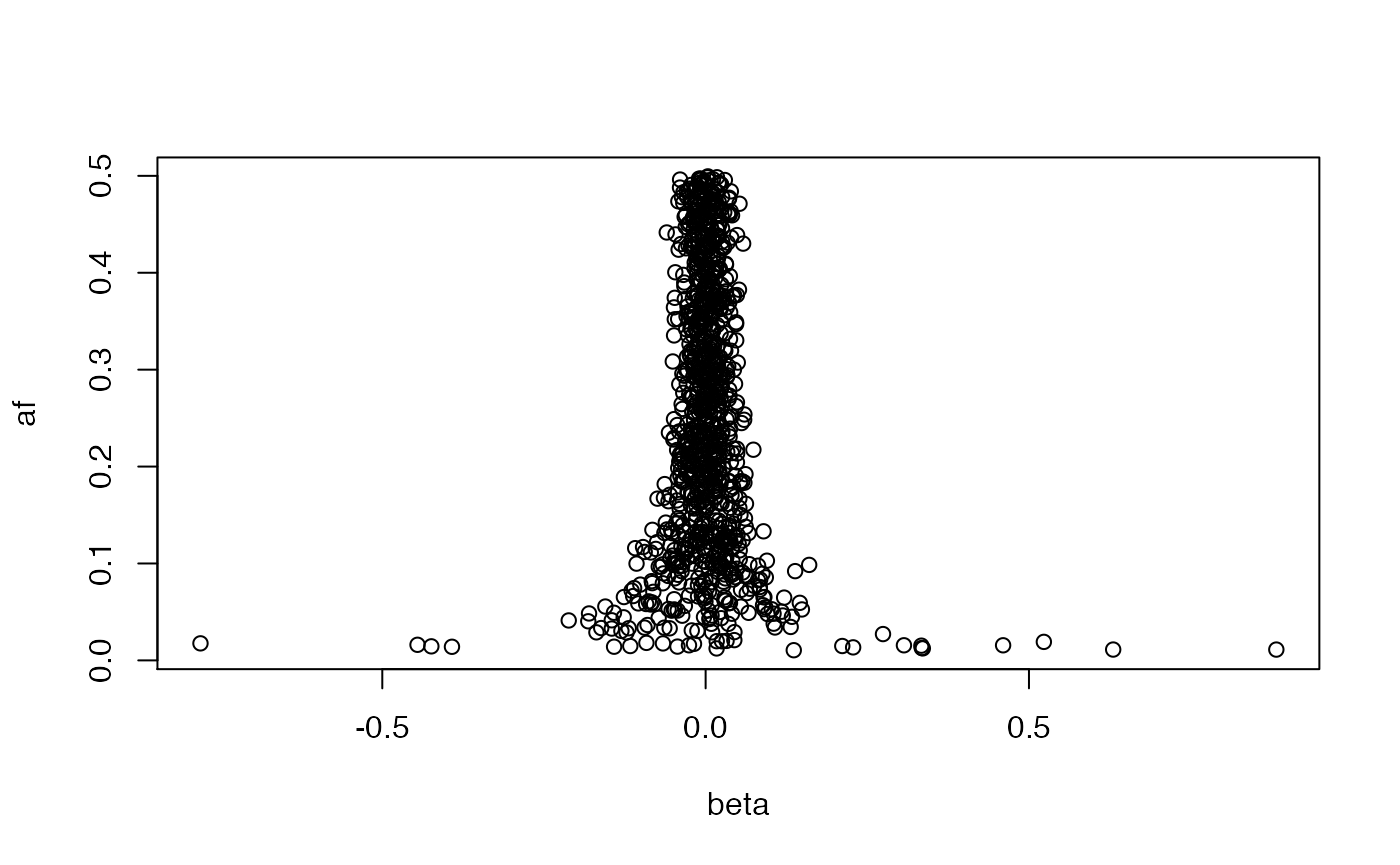
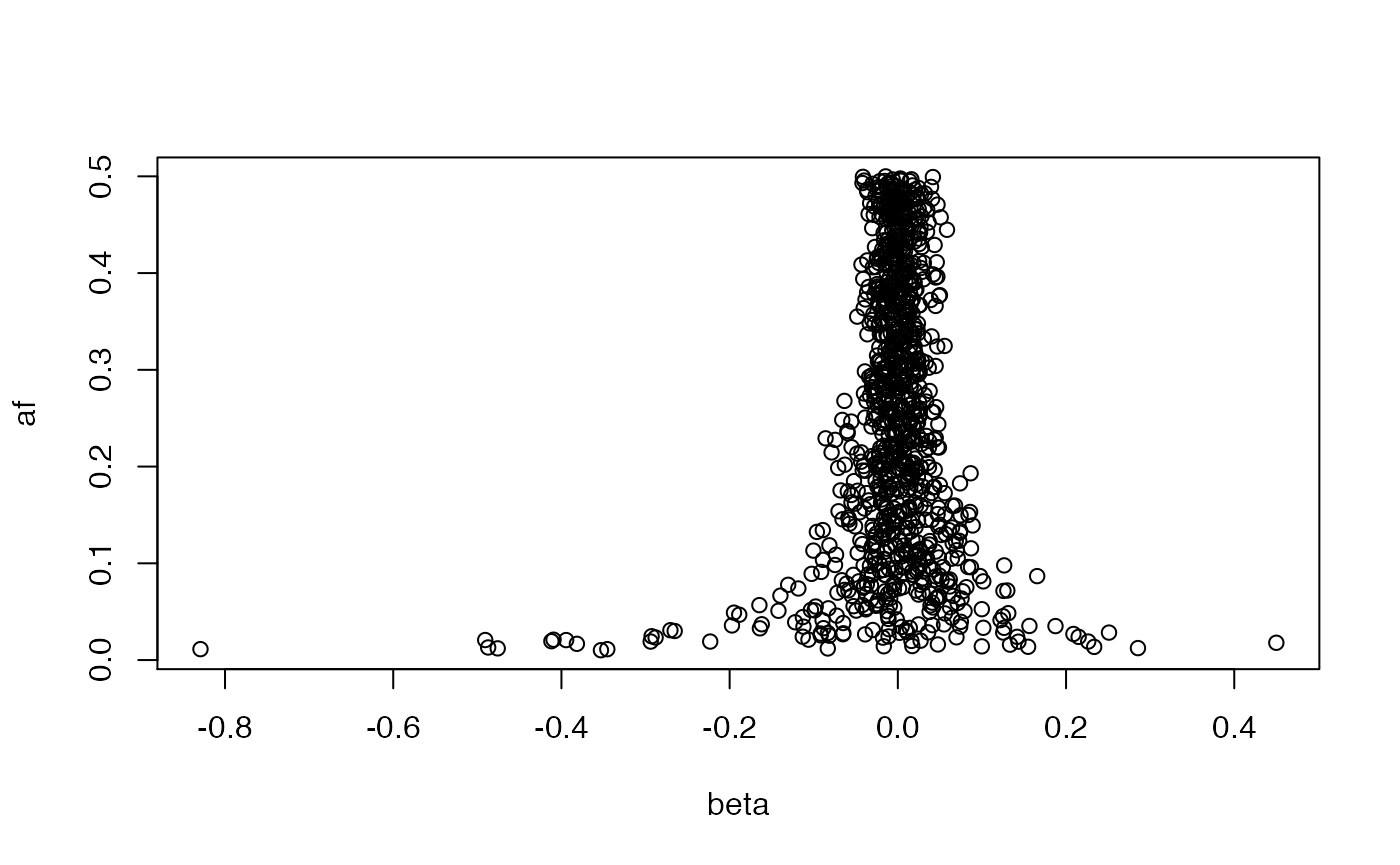
updated

diff --git a/docs/articles/weak_instruments.html b/docs/articles/weak_instruments.html
@@ -64,7 +64,7 @@
       <h1 data-toc-skip>Simulating summary data for weak instruments</h1>
             
       
-      
+      <small class="dont-index">Source: <a href="https://github.com/explodecomputer/simulateGP/blob/master/vignettes/weak_instruments.Rmd"><code>vignettes/weak_instruments.Rmd</code></a></small>
       <div class="hidden name"><code>weak_instruments.Rmd</code></div>
 
     </div>
@@ -72,7 +72,7 @@
     
     
 <div class="sourceCode" id="cb1"><pre class="downlit">
-<span class="kw"><a href="https://rdrr.io/r/base/library.html">library</a></span><span class="op">(</span><span class="va">simulateGP</span><span class="op">)</span>
+<span class="kw"><a href="https://rdrr.io/r/base/library.html">library</a></span><span class="op">(</span><span class="va"><a href="https://explodecomputer.github.io/simulateGP/">simulateGP</a></span><span class="op">)</span>
 <span class="kw"><a href="https://rdrr.io/r/base/library.html">library</a></span><span class="op">(</span><span class="va"><a href="http://tidyverse.tidyverse.org">tidyverse</a></span><span class="op">)</span>
 <span class="co">#&gt; ── Attaching packages ─────────────────────────────────────── tidyverse 1.3.0 ──</span>
 <span class="co">#&gt; ✔ ggplot2 3.3.2     ✔ purrr   0.3.4</span>
@@ -81,7 +81,8 @@
 <span class="co">#&gt; ✔ readr   1.4.0     ✔ forcats 0.5.0</span>
 <span class="co">#&gt; ── Conflicts ────────────────────────────────────────── tidyverse_conflicts() ──</span>
 <span class="co">#&gt; ✖ dplyr::filter() masks stats::filter()</span>
-<span class="co">#&gt; ✖ dplyr::lag()    masks stats::lag()</span></pre></div>
+<span class="co">#&gt; ✖ dplyr::lag()    masks stats::lag()</span>
+<span class="kw"><a href="https://rdrr.io/r/base/library.html">library</a></span><span class="op">(</span><span class="va"><a href="http://mvtnorm.R-forge.R-project.org">mvtnorm</a></span><span class="op">)</span></pre></div>
 <div id="weak-instrument-bias" class="section level2">
 <h2 class="hasAnchor">
 <a href="#weak-instrument-bias" class="anchor"></a>Weak instrument bias</h2>
@@ -120,10 +121,10 @@
 
 
 <span class="fu"><a href="https://rdrr.io/r/stats/cor.html">var</a></span><span class="op">(</span><span class="va">bv</span><span class="op">)</span>
-<span class="co">#&gt;         [,1]</span>
-<span class="co">#&gt; [1,] 40.6747</span>
+<span class="co">#&gt;          [,1]</span>
+<span class="co">#&gt; [1,] 39.19044</span>
 <span class="fu"><a href="https://rdrr.io/r/stats/sd.html">sd</a></span><span class="op">(</span><span class="va">bv</span><span class="op">)</span>
-<span class="co">#&gt; [1] 6.377672</span>
+<span class="co">#&gt; [1] 6.260227</span>
 
 
 <span class="co"># h2 &lt;- b^2 * 2 * maf * (1 - maf) / vy</span>
@@ -137,14 +138,14 @@
 <span class="va">b</span> <span class="op">&lt;-</span> <span class="fu"><a href="../reference/choose_effects.html">choose_effects</a></span><span class="op">(</span><span class="va">nsnp</span>, <span class="va">h2</span><span class="op">)</span>
 <span class="va">y</span> <span class="op">&lt;-</span> <span class="fu"><a href="../reference/make_phen.html">make_phen</a></span><span class="op">(</span><span class="va">b</span>, <span class="va">G</span><span class="op">)</span>
 <span class="fu"><a href="https://rdrr.io/r/utils/head.html">head</a></span><span class="op">(</span><span class="va">y</span><span class="op">)</span>
-<span class="co">#&gt; [1]  1.1744053  0.1270495 -0.5768725 -1.0078958  1.2872104 -0.6908361</span>
+<span class="co">#&gt; [1]  1.5845015  0.5558443  0.6652768 -0.1481803  0.4776362 -1.4979761</span>
 <span class="fu"><a href="https://rdrr.io/r/stats/cor.html">var</a></span><span class="op">(</span><span class="va">y</span><span class="op">)</span>
 <span class="co">#&gt; [1] 1</span>
 
 <span class="va">bv</span> <span class="op">&lt;-</span> <span class="va">G</span> <span class="op">%*%</span> <span class="va">b</span>
 <span class="fu"><a href="https://rdrr.io/r/stats/cor.html">cor</a></span><span class="op">(</span><span class="va">bv</span>, <span class="va">y</span><span class="op">)</span><span class="op">^</span><span class="fl">2</span>
 <span class="co">#&gt;           [,1]</span>
-<span class="co">#&gt; [1,] 0.4014981</span>
+<span class="co">#&gt; [1,] 0.4008447</span>
 <span class="va">bhat</span> <span class="op">&lt;-</span> <span class="fu"><a href="../reference/gwas.html">gwas</a></span><span class="op">(</span><span class="va">y</span>, <span class="va">G</span><span class="op">)</span>
 <span class="co">#&gt; Warning: The `x` argument of `as_tibble.matrix()` must have unique column names if `.name_repair` is omitted as of tibble 2.0.0.</span>
 <span class="co">#&gt; Using compatibility `.name_repair`.</span>
@@ -221,11 +222,10 @@ s_{\hat{\beta}} = \sqrt{\frac{MSE}{SSX}}
 <p><img src="weak_instruments_files/figure-html/unnamed-chunk-8-6.png" width="700"></p>
 <p>Weak instrument bias</p>
 <div class="sourceCode" id="cb15"><pre class="downlit">
-<span class="kw"><a href="https://rdrr.io/r/base/library.html">library</a></span><span class="op">(</span><span class="va"><a href="http://mvtnorm.R-forge.R-project.org">mvtnorm</a></span><span class="op">)</span>
 
 <span class="va">get_biv_bias</span> <span class="op">&lt;-</span> <span class="kw">function</span><span class="op">(</span><span class="va">n</span>, <span class="va">rho</span>, <span class="va">beta</span>, <span class="va">pi1</span><span class="op">)</span>
 <span class="op">{</span>
-    <span class="va">err</span> <span class="op">&lt;-</span> <span class="fu"><a href="https://rdrr.io/pkg/mvtnorm/man/Mvnorm.html">rmvnorm</a></span><span class="op">(</span><span class="va">n</span>, <span class="fu"><a href="https://rdrr.io/r/base/c.html">c</a></span><span class="op">(</span><span class="fl">0</span>,<span class="fl">0</span><span class="op">)</span>, <span class="fu"><a href="https://rdrr.io/r/base/matrix.html">matrix</a></span><span class="op">(</span><span class="fu"><a href="https://rdrr.io/r/base/c.html">c</a></span><span class="op">(</span><span class="fl">1</span>,<span class="va">rho</span>,<span class="va">rho</span>,<span class="fl">1</span><span class="op">)</span>, <span class="fl">2</span>, <span class="fl">2</span><span class="op">)</span><span class="op">)</span>
+    <span class="va">err</span> <span class="op">&lt;-</span> <span class="fu">mvtnorm</span><span class="fu">::</span><span class="fu"><a href="https://rdrr.io/pkg/mvtnorm/man/Mvnorm.html">rmvnorm</a></span><span class="op">(</span><span class="va">n</span>, <span class="fu"><a href="https://rdrr.io/r/base/c.html">c</a></span><span class="op">(</span><span class="fl">0</span>,<span class="fl">0</span><span class="op">)</span>, <span class="fu"><a href="https://rdrr.io/r/base/matrix.html">matrix</a></span><span class="op">(</span><span class="fu"><a href="https://rdrr.io/r/base/c.html">c</a></span><span class="op">(</span><span class="fl">1</span>,<span class="va">rho</span>,<span class="va">rho</span>,<span class="fl">1</span><span class="op">)</span>, <span class="fl">2</span>, <span class="fl">2</span><span class="op">)</span><span class="op">)</span>
     <span class="va">eta</span> <span class="op">&lt;-</span> <span class="va">err</span><span class="op">[</span>,<span class="fl">1</span><span class="op">]</span>
     <span class="va">zeta</span> <span class="op">&lt;-</span> <span class="va">err</span><span class="op">[</span>,<span class="fl">2</span><span class="op">]</span>
     <span class="va">z</span> <span class="op">&lt;-</span> <span class="fu"><a href="https://rdrr.io/r/stats/Normal.html">rnorm</a></span><span class="op">(</span><span class="va">n</span><span class="op">)</span>

diff --git a/docs/articles/gwas_summary_data.html b/docs/articles/gwas_summary_data.html
@@ -64,7 +64,7 @@
       <h1 data-toc-skip>Simulating GWAS summary data</h1>
             
       
-      
+      <small class="dont-index">Source: <a href="https://github.com/explodecomputer/simulateGP/blob/master/vignettes/gwas_summary_data.Rmd"><code>vignettes/gwas_summary_data.Rmd</code></a></small>
       <div class="hidden name"><code>gwas_summary_data.Rmd</code></div>
 
     </div>
@@ -72,7 +72,7 @@
     
     
 <div class="sourceCode" id="cb1"><pre class="downlit">
-<span class="kw"><a href="https://rdrr.io/r/base/library.html">library</a></span><span class="op">(</span><span class="va">simulateGP</span><span class="op">)</span>
+<span class="kw"><a href="https://rdrr.io/r/base/library.html">library</a></span><span class="op">(</span><span class="va"><a href="https://explodecomputer.github.io/simulateGP/">simulateGP</a></span><span class="op">)</span>
 <span class="kw"><a href="https://rdrr.io/r/base/library.html">library</a></span><span class="op">(</span><span class="va"><a href="http://tidyverse.tidyverse.org">tidyverse</a></span><span class="op">)</span>
 <span class="co">#&gt; ── Attaching packages ─────────────────────────────────────── tidyverse 1.3.0 ──</span>
 <span class="co">#&gt; ✔ ggplot2 3.3.2     ✔ purrr   0.3.4</span>
@@ -144,9 +144,9 @@ s_{\hat{\beta}_1} = \sqrt{\frac{\sum{\epsilon_i^2}}{(n-2) \sum{(x_i - \bar{x})^2
 <span class="va">x</span> <span class="op">&lt;-</span> <span class="fu"><a href="https://rdrr.io/r/stats/Normal.html">rnorm</a></span><span class="op">(</span><span class="va">n</span><span class="op">)</span>
 
 <span class="fu"><a href="https://rdrr.io/r/base/summary.html">summary</a></span><span class="op">(</span><span class="fu"><a href="https://rdrr.io/r/stats/lm.html">lm</a></span><span class="op">(</span><span class="va">y</span> <span class="op">~</span> <span class="va">x</span><span class="op">)</span><span class="op">)</span><span class="op">$</span><span class="va">coefficients</span><span class="op">[</span><span class="fl">2</span>,<span class="fl">2</span><span class="op">]</span>
-<span class="co">#&gt; [1] 0.08782566</span>
+<span class="co">#&gt; [1] 0.1195367</span>
 <span class="fu"><a href="https://rdrr.io/r/base/MathFun.html">sqrt</a></span><span class="op">(</span><span class="op">(</span><span class="fu"><a href="https://rdrr.io/r/stats/cor.html">var</a></span><span class="op">(</span><span class="va">y</span><span class="op">)</span> <span class="op">-</span> <span class="fu"><a href="https://rdrr.io/r/stats/cor.html">cor</a></span><span class="op">(</span><span class="va">x</span>,<span class="va">y</span><span class="op">)</span><span class="op">^</span><span class="fl">2</span> <span class="op">*</span> <span class="fu"><a href="https://rdrr.io/r/stats/cor.html">var</a></span><span class="op">(</span><span class="va">y</span><span class="op">)</span><span class="op">)</span> <span class="op">/</span> <span class="op">(</span><span class="fu"><a href="https://rdrr.io/r/stats/cor.html">var</a></span><span class="op">(</span><span class="va">x</span><span class="op">)</span> <span class="op">*</span> <span class="op">(</span><span class="va">n</span><span class="op">-</span><span class="fl">2</span><span class="op">)</span><span class="op">)</span><span class="op">)</span>
-<span class="co">#&gt; [1] 0.08782566</span></pre></div>
+<span class="co">#&gt; [1] 0.1195367</span></pre></div>
 </div>
 <div id="sampling-the-effect-estimate" class="section level2">
 <h2 class="hasAnchor">
@@ -222,7 +222,7 @@ Var(y) = V_G + V_E
 <span class="co">#&gt;     beta &lt;- beta/sqrt(vy)</span>
 <span class="co">#&gt;     return(dplyr::tibble(beta = beta, af = af))</span>
 <span class="co">#&gt; }</span>
-<span class="co">#&gt; &lt;bytecode: 0x7fefcb2b1b80&gt;</span>
+<span class="co">#&gt; &lt;bytecode: 0x7f8fb2d50700&gt;</span>
 <span class="co">#&gt; &lt;environment: namespace:simulateGP&gt;</span></pre></div>
 <p>Negative selection:</p>
 <div class="sourceCode" id="cb4"><pre class="downlit">

diff --git a/docs/index.html b/docs/index.html
@@ -67,20 +67,27 @@
 <div id="simulate-genotype-phenotype-data-or-gwas-summary-data" class="section level1">
 <div class="page-header"><h1 class="hasAnchor">
 <a href="#simulate-genotype-phenotype-data-or-gwas-summary-data" class="anchor"></a>Simulate genotype-phenotype data or GWAS summary data</h1></div>
-<p>This package contains functions that simulate individual-level genotype and phenotype data that conform to pre-specified directed acyclic graphs. It can also simulate GWAS summary data for arbitrary sample sizes rapidly, with realistic genetic architectures, sample overlap effects and LD structures.</p>
-<p>To install:</p>
-<pre><code><a href="https://devtools.r-lib.org//reference/remote-reexports.html">devtools::install_github("explodecomputer/simulateGP")</a></code></pre>
-<div id="documentation" class="section level2">
-<h2 class="hasAnchor">
-<a href="#documentation" class="anchor"></a>Documentation</h2>
-<p>For extended information see the documentation <a href="https://explodecomputer.github.io/simulateGP">here</a>.</p>
+<p>This package contains functions that simulate individual-level genotype and phenotype data arising from pre-specified directed acyclic graphs. It can also simulate large scale GWAS summary data for arbitrary sample sizes rapidly, with realistic genetic architectures, sample overlap effects and LD structures.</p>
 </div>
+<div id="installation" class="section level1">
+<h1 class="hasAnchor">
+<a href="#installation" class="anchor"></a>Installation</h1>
+<pre><code><a href="https://remotes.r-lib.org/reference/install_github.html">remotes::install_github("explodecomputer/simulateGP")</a></code></pre>
 </div>
 
   </div>
 
   <div class="col-md-3 hidden-xs hidden-sm" id="pkgdown-sidebar">
-    <div class="license">
+    <div class="links">
+<h2>Links</h2>
+<ul class="list-unstyled">
+<li>Browse source code at <br><a href="https://github.com/explodecomputer/simulateGP/">https://github.com/explodecomputer/simulateGP/</a>
+</li>
+<li>Report a bug at <br><a href="https://github.com/explodecomputer/simulateGP/issues">https://github.com/explodecomputer/simulateGP/issues</a>
+</li>
+</ul>
+</div>
+<div class="license">
 <h2>License</h2>
 <ul class="list-unstyled">
 <li><a href="LICENSE.html">Full license</a></li>
@@ -99,8 +106,7 @@
 <h2>Dev status</h2>
 <ul class="list-unstyled">
 <li><a href="https://www.tidyverse.org/lifecycle/#experimental"><img src="https://img.shields.io/badge/lifecycle-experimental-orange.svg" alt="Lifecycle: experimental"></a></li>
-<li><a href="https://travis-ci.org/explodecomputer/simulateGP"><img src="https://travis-ci.org/explodecomputer/simulateGP.svg?branch=master" alt="Travis-CI build status"></a></li>
-<li><a href="https://codecov.io/github/explodecomputer/simulateGP"><img src="https://codecov.io/github/explodecomputer/simulateGP/branch/master/graphs/badge.svg" alt="codecov"></a></li>
+<li><a href="https://github.com/explodecomputer/simulateGP/actions"><img src="https://github.com/explodecomputer/simulateGP/workflows/R-CMD-check/badge.svg" alt="R build status"></a></li>
 </ul>
 </div>
 </div>

diff --git a/docs/reference/contingency.html b/docs/reference/contingency.html
@@ -104,7 +104,7 @@ Rows are the frequencies for allele 1 and allele 2" />
   <div class="col-md-9 contents">
     <div class="page-header">
     <h1>Obtain 2x2 contingency table from marginal parameters and odds ratio</h1>
-    
+    <small class="dont-index">Source: <a href='https://github.com/explodecomputer/simulateGP/blob/master/R/rsq_liability.r'><code>R/rsq_liability.r</code></a></small>
     <div class="hidden name"><code>contingency.Rd</code></div>
     </div>
 

diff --git a/docs/reference/get_population_allele_frequency.html b/docs/reference/get_population_allele_frequency.html
@@ -103,7 +103,7 @@
   <div class="col-md-9 contents">
     <div class="page-header">
     <h1>Estimate the allele frequency in population from case/control summary data</h1>
-    
+    <small class="dont-index">Source: <a href='https://github.com/explodecomputer/simulateGP/blob/master/R/rsq_liability.r'><code>R/rsq_liability.r</code></a></small>
     <div class="hidden name"><code>get_population_allele_frequency.Rd</code></div>
     </div>
 

diff --git a/docs/reference/ascertain_samples.html b/docs/reference/ascertain_samples.html
@@ -103,7 +103,7 @@
   <div class="col-md-9 contents">
     <div class="page-header">
     <h1>Ascertain some proportion of cases and controls from binary phenotype</h1>
-    
+    <small class="dont-index">Source: <a href='https://github.com/explodecomputer/simulateGP/blob/master/R/generate_individuals.r'><code>R/generate_individuals.r</code></a></small>
     <div class="hidden name"><code>ascertain_samples.Rd</code></div>
     </div>
 

diff --git a/docs/reference/lor_to_rsq.html b/docs/reference/lor_to_rsq.html
@@ -103,7 +103,7 @@
   <div class="col-md-9 contents">
     <div class="page-header">
     <h1>Estimate proportion of variance of liability explained by SNP in general population</h1>
-    
+    <small class="dont-index">Source: <a href='https://github.com/explodecomputer/simulateGP/blob/master/R/rsq_liability.r'><code>R/rsq_liability.r</code></a></small>
     <div class="hidden name"><code>lor_to_rsq.Rd</code></div>
     </div>
 

diff --git a/docs/reference/make_mvdat.html b/docs/reference/make_mvdat.html
@@ -103,7 +103,7 @@
   <div class="col-md-9 contents">
     <div class="page-header">
     <h1>Take several exposures and one outcome and make the data required for multivariable MR</h1>
-    
+    <small class="dont-index">Source: <a href='https://github.com/explodecomputer/simulateGP/blob/master/R/format_mr.r'><code>R/format_mr.r</code></a></small>
     <div class="hidden name"><code>make_mvdat.Rd</code></div>
     </div>
 

diff --git a/docs/reference/choose_effects.html b/docs/reference/choose_effects.html
@@ -103,7 +103,7 @@
   <div class="col-md-9 contents">
     <div class="page-header">
     <h1>Get vector of effects that explain some amount of variance</h1>
-    
+    <small class="dont-index">Source: <a href='https://github.com/explodecomputer/simulateGP/blob/master/R/generate_individuals.r'><code>R/generate_individuals.r</code></a></small>
     <div class="hidden name"><code>choose_effects.Rd</code></div>
     </div>
 

diff --git a/docs/reference/make_phen.html b/docs/reference/make_phen.html
@@ -103,7 +103,7 @@
   <div class="col-md-9 contents">
     <div class="page-header">
     <h1>Simulate variable based on the influences of other variables</h1>
-    
+    <small class="dont-index">Source: <a href='https://github.com/explodecomputer/simulateGP/blob/master/R/generate_individuals.r'><code>R/generate_individuals.r</code></a></small>
     <div class="hidden name"><code>make_phen.Rd</code></div>
     </div>
 

diff --git a/docs/reference/generate_gwas_params.html b/docs/reference/generate_gwas_params.html
@@ -103,7 +103,7 @@
   <div class="col-md-9 contents">
     <div class="page-header">
     <h1>Generate SNP effects given MAF, h2 and selection</h1>
-    
+    <small class="dont-index">Source: <a href='https://github.com/explodecomputer/simulateGP/blob/master/R/theoretical_gwas.R'><code>R/theoretical_gwas.R</code></a></small>
     <div class="hidden name"><code>generate_gwas_params.Rd</code></div>
     </div>
 

diff --git a/docs/reference/sample_system_effects.html b/docs/reference/sample_system_effects.html
@@ -103,7 +103,7 @@
   <div class="col-md-9 contents">
     <div class="page-header">
     <h1>Sample the actual effects based on initial parameters</h1>
-    
+    <small class="dont-index">Source: <a href='https://github.com/explodecomputer/simulateGP/blob/master/R/mr_system.r'><code>R/mr_system.r</code></a></small>
     <div class="hidden name"><code>sample_system_effects.Rd</code></div>
     </div>
 
